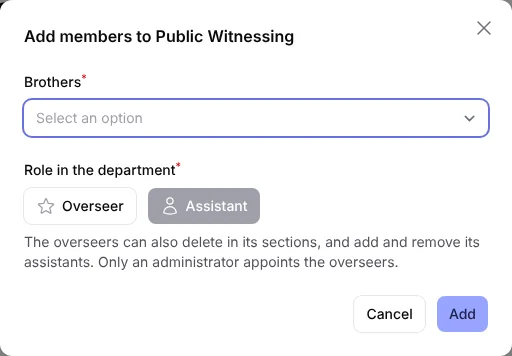
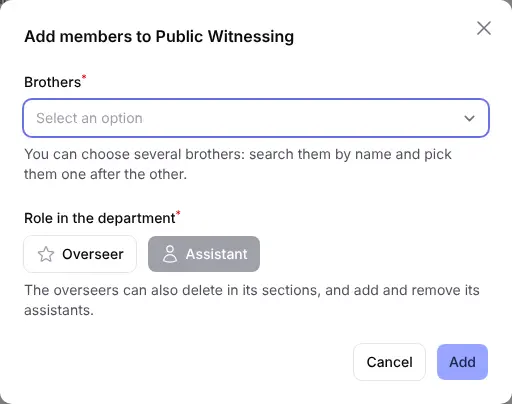
feat(users): add users to a department in bulk (#66)
Add an "Add to department" bulk action to the users list, and a
helper text saying that "Add members" accepts several brothers.

Closes #65

diff --git a/tests/Feature/DepartmentsTest.php b/tests/Feature/DepartmentsTest.php
@@ -16,6 +16,7 @@ use App\Models\User;
 use BezhanSalleh\FilamentShield\Facades\FilamentShield;
 use Filament\Actions\Testing\TestAction;
 use Filament\Facades\Filament;
+use Filament\Forms\Components\Select;
 use Illuminate\Support\Facades\Notification;
 use Livewire\Livewire;
 use Spatie\Activitylog\Models\Activity;
@@ -244,6 +245,9 @@ test('the users to add are searched by name, not by email', function () {
 
     $select = Livewire::test(MembersRelationManager::class, ['ownerRecord' => $department, 'pageClass' => ViewDepartment::class])
         ->mountAction(TestAction::make('attach')->table())
+        // The field says that several brothers can be chosen
+        ->assertFormFieldExists('recordId', fn (Select $field): bool => $field->isMultiple()
+            && $field->getChildSchema($field::BELOW_CONTENT_SCHEMA_KEY)?->getComponents()[0]?->getContent() === __('departments.members.field_users_helper'))
         ->instance()
         ->getMountedAction()
         ->getRecordSelect();
@@ -342,4 +346,56 @@ test('adding, changing and removing the members of a department is logged', func
         ->and($activities[0]->properties['attributes'])->toMatchArray(['department_id' => $department->id, 'user_id' => $member->id, 'role' => 'assistant'])
         ->and($activities[1]->properties['attributes'])->toBe(['role' => 'overseer'])
         ->and($activities[2]->properties['old'])->toMatchArray(['user_id' => $member->id, 'role' => 'overseer']);
+});
+
+test('administrators add the users selected in the list to a department in bulk, keeping the role of the members', function () {
+    $this->actingAs($this->admin);
+
+    $department = Department::for(DepartmentKey::Publications);
+    $overseer = User::factory()->create();
+    joinDepartment($overseer, DepartmentKey::Publications, DepartmentRole::Overseer);
+    $newMembers = User::factory()->count(2)->create();
+
+    Livewire::test(ListUsers::class)
+        ->selectTableRecords([$overseer, ...$newMembers])
+        ->callAction(TestAction::make('addToDepartment')->table()->bulk(), ['department' => $department->id, 'role' => DepartmentRole::Assistant->value])
+        ->assertHasNoFormErrors()
+        ->assertNotified(trans_choice('departments.bulk_add.notification_added', 2, ['count' => 2, 'department' => $department->getLabel()]));
+
+    expect($department->members()->pluck('users.id')->sort()->values()->all())->toBe(collect([$overseer, ...$newMembers])->pluck('id')->sort()->values()->all())
+        ->and($department->isOverseer($overseer))->toBeTrue()
+        ->and($department->overseers()->count())->toBe(1)
+        ->and(Activity::query()->where('subject_type', (new DepartmentMember)->getMorphClass())->where('event', 'created')->count())->toBe(3);
+});
+
+test('the overseers add users in bulk only to their own departments, and only as assistants', function () {
+    $overseer = User::factory()->create();
+    $overseer->givePermissionTo(Permission::findOrCreate('ViewAny:User', 'web'));
+    $department = joinDepartment($overseer, DepartmentKey::PublicWitnessing, DepartmentRole::Overseer);
+    $other = Department::for(DepartmentKey::Publications);
+    $user = User::factory()->create();
+
+    $this->actingAs($overseer);
+    $component = fn () => Livewire::test(ListUsers::class)->selectTableRecords([$user]);
+    $action = TestAction::make('addToDepartment')->table()->bulk();
+
+    $component()->callAction($action, ['department' => $other->id, 'role' => DepartmentRole::Assistant->value])
+        ->assertHasFormErrors(['department']);
+    $component()->callAction($action, ['department' => $department->id, 'role' => DepartmentRole::Overseer->value])
+        ->assertHasFormErrors(['role']);
+    $component()->callAction($action, ['department' => $department->id, 'role' => DepartmentRole::Assistant->value])
+        ->assertHasNoFormErrors();
+
+    expect($user->fresh()->isMemberOf(DepartmentKey::PublicWitnessing))->toBeTrue()
+        ->and($user->fresh()->isMemberOf(DepartmentKey::Publications))->toBeFalse();
+});
+
+test('the users who manage no department cannot add users to one in bulk', function () {
+    $user = User::factory()->create();
+    $user->givePermissionTo(Permission::findOrCreate('ViewAny:User', 'web'));
+
+    $this->actingAs($user);
+
+    Livewire::test(ListUsers::class)
+        ->assertActionHidden(TestAction::make('addToDepartment')->table()->bulk());
 });

diff --git a/app/Filament/Resources/Users/Actions/AddToDepartmentBulkAction.php b/app/Filament/Resources/Users/Actions/AddToDepartmentBulkAction.php
@@ -1,0 +1,91 @@
+<?php
+
+namespace App\Filament\Resources\Users\Actions;
+
+use App\Filament\Resources\Departments\RelationManagers\MembersRelationManager;
+use App\Models\Department;
+use App\Models\User;
+use Filament\Actions\BulkAction;
+use Filament\Forms\Components\Select;
+use Filament\Notifications\Notification;
+use Filament\Support\Icons\Heroicon;
+use Illuminate\Database\Eloquent\Collection;
+use Illuminate\Support\Facades\Gate;
+
+/**
+ * Add the users selected in the list to a department, all with the same role, instead of adding them one by one
+ * from the page of the department.
+ *
+ * The departments offered are the ones the current user can manage the members of (as on the page of the department),
+ * and only the administrators appoint the overseers. The users already serving in the department keep their role.
+ */
+class AddToDepartmentBulkAction extends BulkAction
+{
+    public static function getDefaultName(): ?string
+    {
+        return 'addToDepartment';
+    }
+
+    protected function setUp(): void
+    {
+        parent::setUp();
+
+        $this
+            ->label(__('departments.bulk_add.action'))
+            ->icon(Heroicon::OutlinedUserPlus)
+            ->color('gray')
+            ->modalHeading(__('departments.bulk_add.heading'))
+            ->modalSubmitActionLabel(__('departments.members.action_add_submit'))
+            ->authorize(fn (): bool => static::getManageableDepartments()->isNotEmpty())
+            ->schema([
+                Select::make('department')
+                    ->label(__('departments.bulk_add.field_department'))
+                    ->options(fn (): array => static::getManageableDepartments()
+                        ->mapWithKeys(fn (Department $department): array => [$department->getKey() => $department->getLabel()])
+                        ->all())
+                    // Checked again on save: the options are only what is shown
+                    ->in(fn (): array => static::getManageableDepartments()->modelKeys())
+                    ->required(),
+                MembersRelationManager::getRoleField(),
+            ])
+            ->deselectRecordsAfterCompletion()
+            ->action(function (Collection $records, array $data): void {
+                $department = static::getManageableDepartments()->find($data['department']);
+
+                if ($department === null) {
+                    return;
+                }
+
+                $existingMemberIds = $department->members()->whereKey($records->modelKeys())->pluck('users.id')->all();
+                $newMembers = $records->reject(fn (User $user): bool => in_array($user->getKey(), $existingMemberIds));
+
+                // One by one through the pivot model, so that each membership is logged
+                $department->members()->attach($newMembers->modelKeys(), ['role' => $data['role']]);
+
+                Notification::make()
+                    ->success()
+                    ->title(trans_choice('departments.bulk_add.notification_added', $newMembers->count(), [
+                        'count' => $newMembers->count(),
+                        'department' => $department->getLabel(),
+                    ]))
+                    ->body(count($existingMemberIds) > 0
+                        ? trans_choice('departments.bulk_add.notification_skipped', count($existingMemberIds), ['count' => count($existingMemberIds)])
+                        : null)
+                    ->send();
+            });
+    }
+
+    /**
+     * Get the departments whose members the current user can manage, in their usual order.
+     *
+     * @return Collection<int, Department>
+     */
+    public static function getManageableDepartments(): Collection
+    {
+        return Department::query()
+            ->ordered()
+            ->get()
+            ->filter(fn (Department $department): bool => Gate::allows('update', $department))
+            ->values();
+    }
+}

diff --git a/lang/es/departments.php b/lang/es/departments.php
@@ -38,6 +38,7 @@ return [
         'column_role' => 'Rol',
         'column_email' => 'Correo electrónico',
         'field_users' => 'Hermanos',
+        'field_users_helper' => 'Puedes elegir varios hermanos: búscalos por nombre y selecciónalos uno tras otro.',
         'field_role' => 'Rol en el departamento',
         'field_role_helper' => 'Los responsables también pueden eliminar en sus secciones, y añadir y quitar sus ayudantes.',
         'action_add' => 'Añadir miembros',
@@ -50,5 +51,12 @@ return [
         'notification_removed' => 'Miembro quitado',
         'empty_heading' => 'Todavía no hay miembros',
         'empty_description' => 'Añade los hermanos que sirven en este departamento: podrán gestionar sus secciones.',
+    ],
+    'bulk_add' => [
+        'action' => 'Añadir al departamento',
+        'heading' => 'Añadir a un departamento',
+        'field_department' => 'Departamento',
+        'notification_added' => '{0} Nadie añadido a :department|{1} 1 hermano añadido a :department|[2,*] :count hermanos añadidos a :department',
+        'notification_skipped' => '{1} 1 ya era miembro y mantiene su rol.|[2,*] :count ya eran miembros y mantienen su rol.',
     ],
 ];

diff --git a/lang/it/departments.php b/lang/it/departments.php
@@ -38,6 +38,7 @@ return [
         'column_role' => 'Ruolo',
         'column_email' => 'Email',
         'field_users' => 'Fratelli',
+        'field_users_helper' => 'Puoi scegliere più fratelli: cercali per nome e selezionali uno dopo l\'altro.',
         'field_role' => 'Ruolo nel reparto',
         'field_role_helper' => 'I responsabili possono anche eliminare nelle sue sezioni, e aggiungerne e rimuoverne gli assistenti.',
         'action_add' => 'Aggiungi membri',
@@ -50,5 +51,12 @@ return [
         'notification_removed' => 'Membro rimosso',
         'empty_heading' => 'Ancora nessun membro',
         'empty_description' => 'Aggiungi i fratelli che servono in questo reparto: potranno gestirne le sezioni.',
+    ],
+    'bulk_add' => [
+        'action' => 'Aggiungi al reparto',
+        'heading' => 'Aggiungi a un reparto',
+        'field_department' => 'Reparto',
+        'notification_added' => '{0} Nessuno aggiunto a :department|{1} 1 fratello aggiunto a :department|[2,*] :count fratelli aggiunti a :department',
+        'notification_skipped' => '{1} 1 era già membro e mantiene il suo ruolo.|[2,*] :count erano già membri e mantengono il loro ruolo.',
     ],
 ];

diff --git a/lang/en/departments.php b/lang/en/departments.php
@@ -38,6 +38,7 @@ return [
         'column_role' => 'Role',
         'column_email' => 'Email',
         'field_users' => 'Brothers',
+        'field_users_helper' => 'You can choose several brothers: search them by name and pick them one after the other.',
         'field_role' => 'Role in the department',
         'field_role_helper' => 'The overseers can also delete in its sections, and add and remove its assistants.',
         'action_add' => 'Add members',
@@ -50,5 +51,12 @@ return [
         'notification_removed' => 'Member removed',
         'empty_heading' => 'No members yet',
         'empty_description' => 'Add the brothers serving in this department: they will be able to manage its sections.',
+    ],
+    'bulk_add' => [
+        'action' => 'Add to department',
+        'heading' => 'Add to a department',
+        'field_department' => 'Department',
+        'notification_added' => '{0} No one added to :department|{1} 1 brother added to :department|[2,*] :count brothers added to :department',
+        'notification_skipped' => '{1} 1 was already a member and keeps their role.|[2,*] :count were already members and keep their role.',
     ],
 ];

diff --git a/app/Filament/Resources/Users/UserResource.php b/app/Filament/Resources/Users/UserResource.php
@@ -4,6 +4,7 @@ namespace App\Filament\Resources\Users;
 
 use App\Enums\DepartmentKey;
 use App\Enums\NavigationGroup;
+use App\Filament\Resources\Users\Actions\AddToDepartmentBulkAction;
 use App\Filament\Resources\Users\Actions\ResendInvitationAction;
 use App\Filament\Resources\Users\Pages\CreateUser;
 use App\Filament\Resources\Users\Pages\EditUser;
@@ -260,6 +261,7 @@ class UserResource extends Resource
             ])
             ->toolbarActions([
                 BulkActionGroup::make([
+                    AddToDepartmentBulkAction::make(),
                     DeleteBulkAction::make()
                         ->deselectRecordsAfterCompletion()
                         ->action(function ($records) {

diff --git a/app/Filament/Resources/Departments/RelationManagers/MembersRelationManager.php b/app/Filament/Resources/Departments/RelationManagers/MembersRelationManager.php
@@ -162,7 +162,8 @@ class MembersRelationManager extends RelationManager
                     ->schema(fn (AttachAction $action): array => [
                         $action->getRecordSelect()
                             ->label(__('departments.members.field_users'))
-                            ->hiddenLabel(false),
+                            ->hiddenLabel(false)
+                            ->helperText(__('departments.members.field_users_helper')),
                         static::getRoleField(),
                     ]),
             ])

diff --git a/docs/user-documentation/it/administration/departments.md b/docs/user-documentation/it/administration/departments.md
@@ -43,5 +43,9 @@ Ogni membro ha un **ruolo nel reparto**:
 
 ![Aggiungere membri](/docs/user-documentation/it/administration/assets/department-add-members.webp)
 
+Per aggiungere **molti utenti insieme**, ad esempio quando si organizza un reparto, puoi anche partire
+dall'[elenco degli utenti](users): selezionali, apri il menu **Azioni** e clicca **Aggiungi al reparto**, poi scegli il
+**Reparto** e il **Ruolo nel reparto**. Chi serve già nel reparto mantiene il suo ruolo.
+
 Gli amministratori possono gestire i membri di ogni reparto; i responsabili solo quelli dei propri reparti.
 La colonna e il filtro **Reparti** dell'[elenco degli utenti](users) mostrano chi serve in quale reparto.

diff --git a/docs/user-documentation/en/administration/departments.md b/docs/user-documentation/en/administration/departments.md
@@ -42,5 +42,9 @@ Each member has a **role in the department**:
 
 ![Adding members](/docs/user-documentation/en/administration/assets/department-add-members.webp)
 
+To add **many users at once**, e.g. when setting up a department, you can also start from the [users list](users):
+select them, open **Bulk actions** and click **Add to department**, then choose the **Department** and the **Role in
+the department**. Those who already serve in the department keep their role.
+
 The administrators can manage the members of every department; the overseers only those of their own departments.
 The **Departments** column and filter of the [users list](users) show who serves where.

diff --git a/docs/user-documentation/en/administration/users.md b/docs/user-documentation/en/administration/users.md
@@ -73,6 +73,12 @@ Super administrators can use the application **as another user**, for example to
 
 Virtual users can be impersonated too; the root user cannot.
 
+## Adding users to a department
+
+Select some users and use the **Add to department** bulk action: choose the **Department** and the **Role in the
+department**, and they all join it at once. Those who already serve in the department keep their role. See
+[Departments](departments) for what the members can do.
+
 ## Deleting users
 
 Use **Delete** in the user page, or select some users and use the **Delete selected** bulk action.

diff --git a/CHANGELOG.md b/CHANGELOG.md
@@ -7,6 +7,16 @@ and this project adheres to [Semantic Versioning](https://semver.org/spec/v2.0.0
 
 ## [Unreleased]
 
+### Added
+
+- **Add to department** bulk action in the users list, to add the selected users to a department at once
+  ([#66](https://github.com/OpenCHelper/OpenCongregationHelper/pull/66)).
+
+### Changed
+
+- The **Brothers** field of **Add members**, in a department, now says that several brothers can be chosen
+  ([#66](https://github.com/OpenCHelper/OpenCongregationHelper/pull/66)).
+
 ## [1.0.0-alpha13] - 2026-11-23
 
 ### Added

diff --git a/docs/user-documentation/it/administration/users.md b/docs/user-documentation/it/administration/users.md
@@ -77,6 +77,12 @@ proclamatore.
 
 Si possono impersonare anche gli utenti virtuali; l'utente root no.
 
+## Aggiungere utenti a un reparto
+
+Seleziona alcuni utenti e usa l'azione di massa **Aggiungi al reparto**: scegli il **Reparto** e il **Ruolo nel
+reparto**, e vi entrano tutti insieme. Chi serve già nel reparto mantiene il suo ruolo. Vedi
+[Reparti](departments) per cosa possono fare i membri.
+
 ## Eliminare utenti
 
 Usa **Elimina** nella pagina dell'utente, oppure seleziona alcuni utenti e usa l'azione di massa
